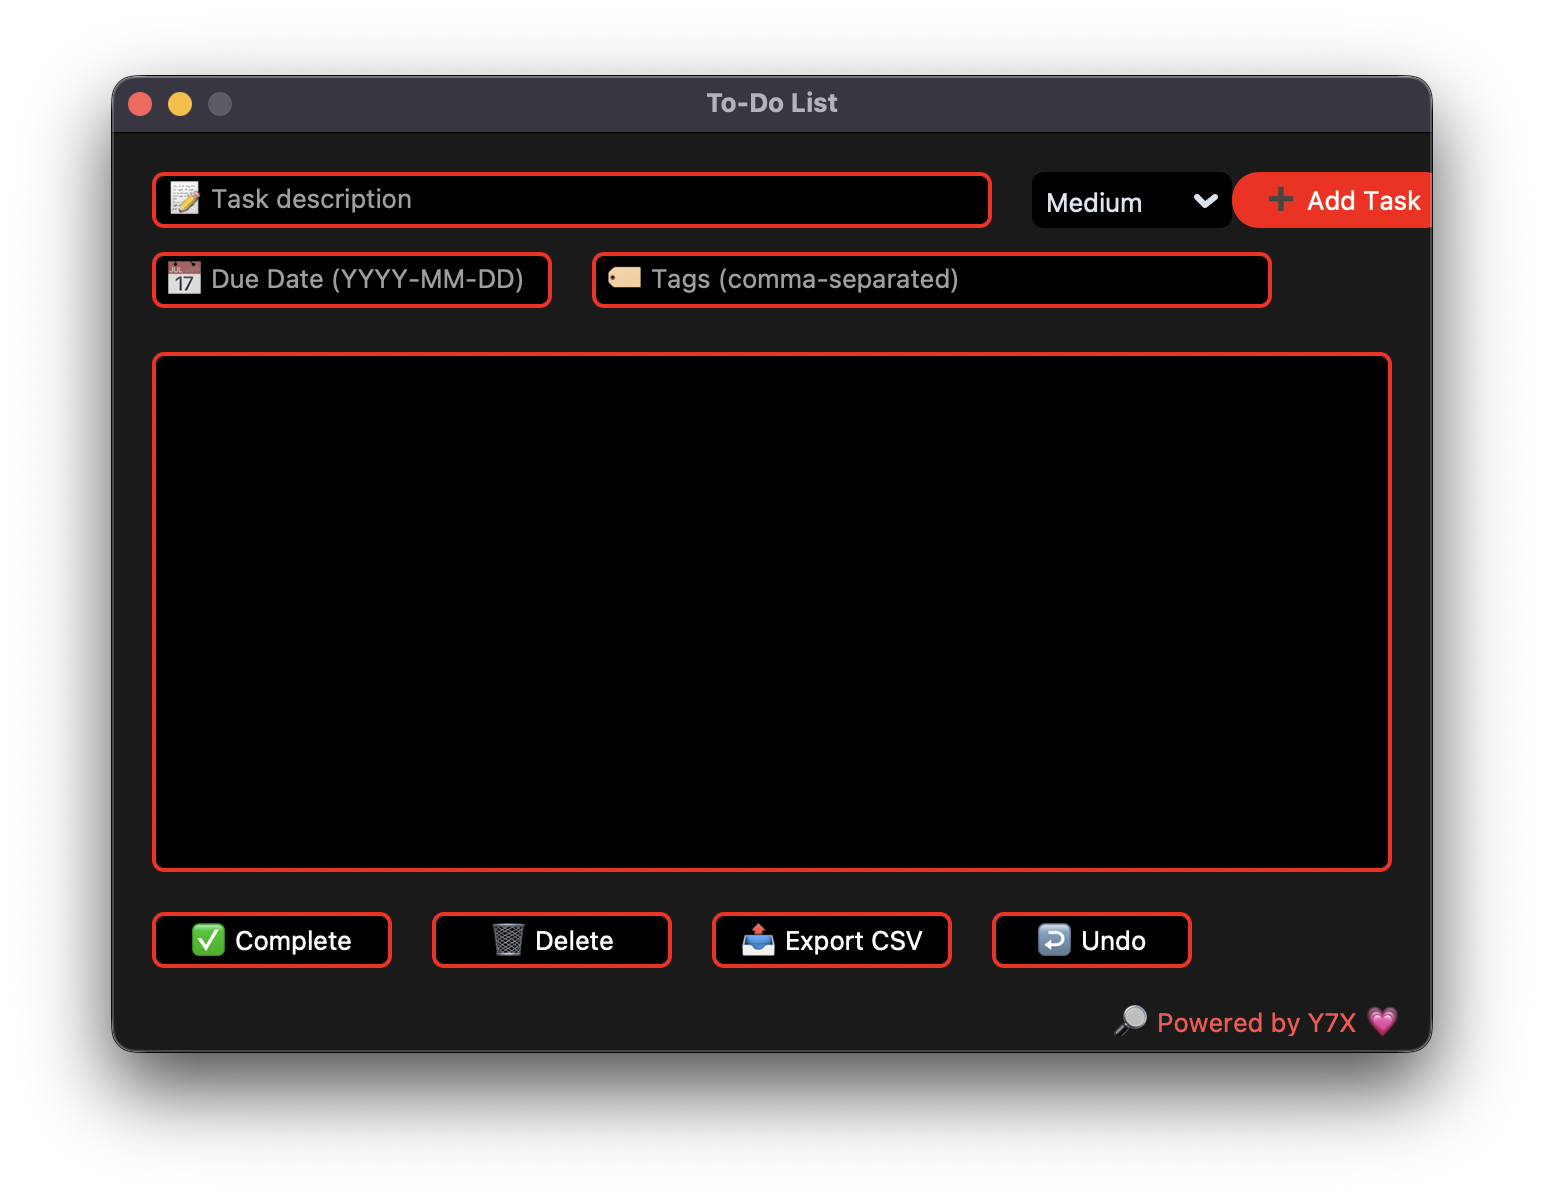
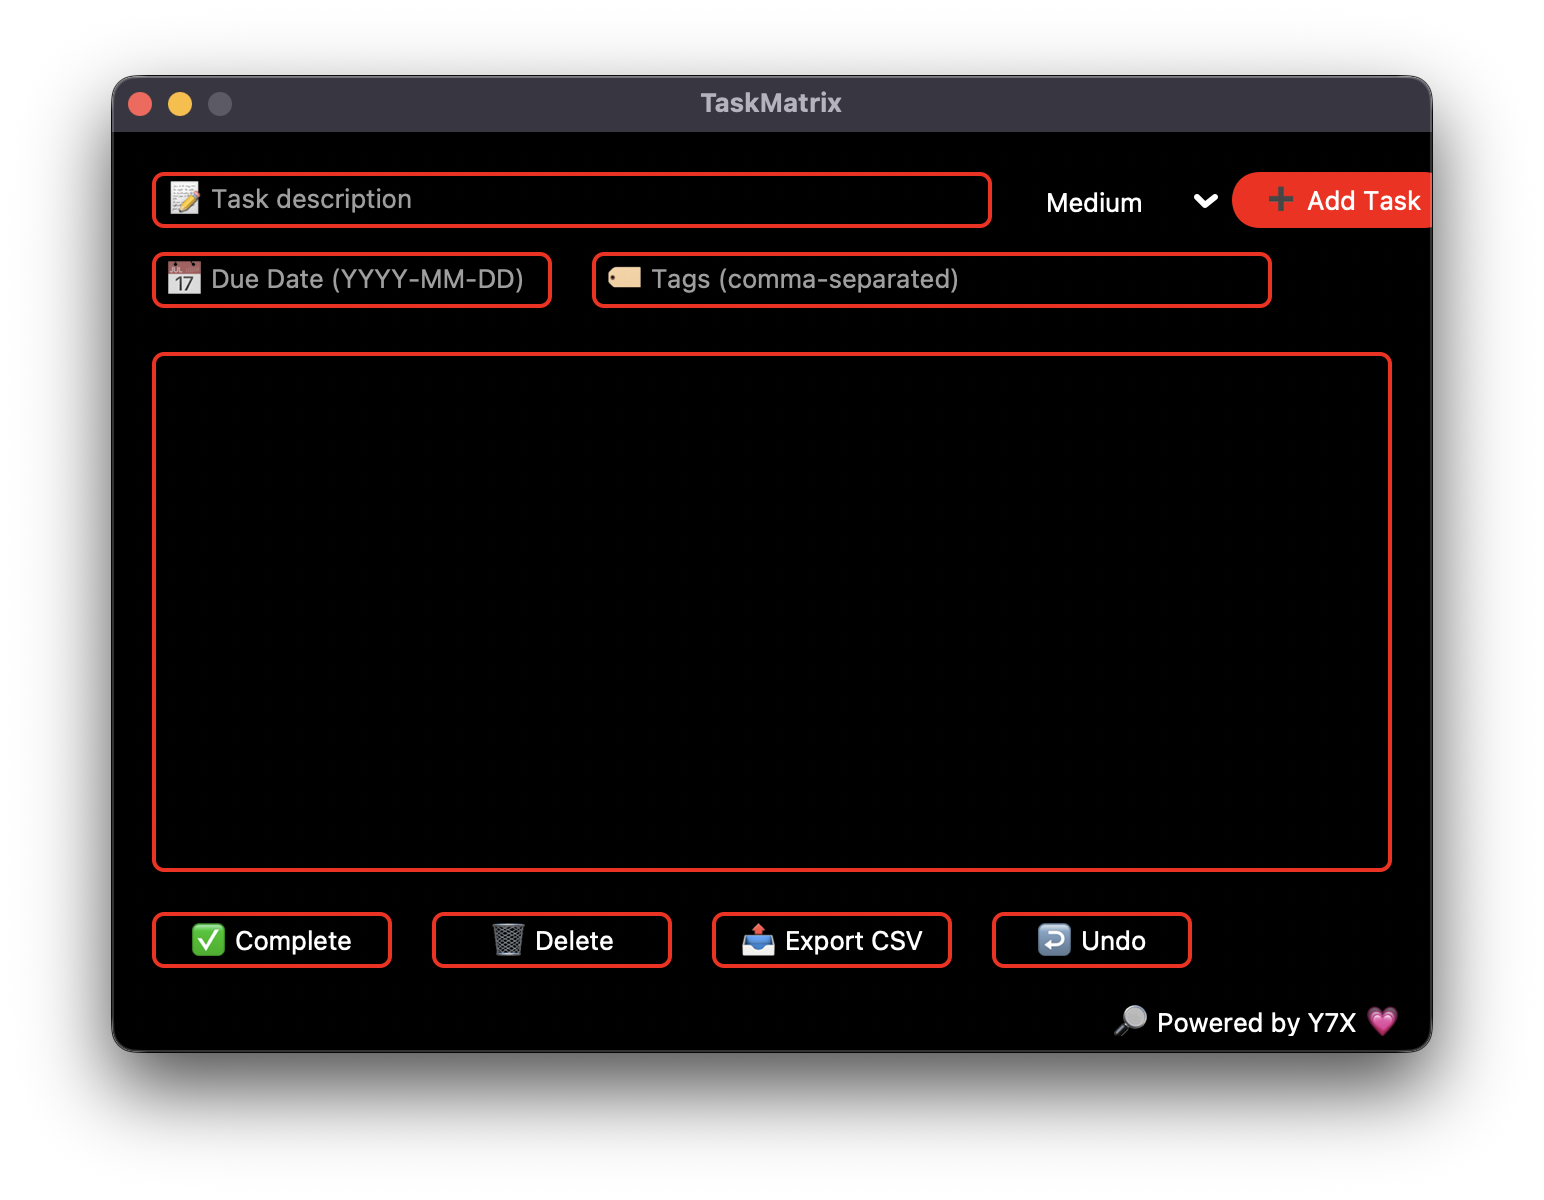
🧠 Minimal chaos. Maximum control

Changed region(s): [[0.0622, 0.0617, 0.9326, 0.8942]]

diff --git a/TaskMatrix.py b/TaskMatrix.py
@@ -22,12 +22,13 @@ class Task:
         if self.tags is None:
             self.tags = []
 
-class TodoApp(ctk.CTk):
+class TaskMatrix(ctk.CTk):
     def __init__(self):
         super().__init__()
-        self.title("To-Do List")
+        self.title("TaskMatrix")
         self.geometry("660x460")
         self.resizable(False, False)
+        self.configure(fg_color="#000000")
         self.filename = "tasks.json"
         self.tasks: List[Task] = []
         self.last_action = None
@@ -35,26 +36,24 @@ class TodoApp(ctk.CTk):
         self.build_ui()
 
     def build_ui(self):
-        self.configure(bg="#000000")
-
-        self.task_entry = ctk.CTkEntry(self, width=420, placeholder_text="📝 Task description", fg_color="#000000", border_color="red", border_width=2)
+        self.task_entry = ctk.CTkEntry(self, width=420, placeholder_text="📝 Task description", fg_color="#000000", border_color="red", border_width=2, text_color="white")
         self.task_entry.place(x=20, y=20)
 
         self.priority_var = ctk.StringVar(value="Medium")
-        self.priority_menu = ctk.CTkOptionMenu(self, values=["Low", "Medium", "High"], variable=self.priority_var, width=100, fg_color="#000000", button_color="#000000")
+        self.priority_menu = ctk.CTkOptionMenu(self, values=["Low", "Medium", "High"], variable=self.priority_var, width=100, fg_color="#000000", button_color="#000000", text_color="white")
         self.priority_menu.place(x=460, y=20)
 
-        self.due_entry = ctk.CTkEntry(self, width=200, placeholder_text="📅 Due Date (YYYY-MM-DD)", fg_color="#000000", border_color="red", border_width=2)
+        self.due_entry = ctk.CTkEntry(self, width=200, placeholder_text="📅 Due Date (YYYY-MM-DD)", fg_color="#000000", border_color="red", border_width=2, text_color="white")
         self.due_entry.place(x=20, y=60)
 
-        self.tags_entry = ctk.CTkEntry(self, width=340, placeholder_text="🏷 Tags (comma-separated)", fg_color="#000000", border_color="red", border_width=2)
+        self.tags_entry = ctk.CTkEntry(self, width=340, placeholder_text="🏷 Tags (comma-separated)", fg_color="#000000", border_color="red", border_width=2, text_color="white")
         self.tags_entry.place(x=240, y=60)
 
         self.add_btn = ctk.CTkButton(self, text="➕ Add Task", width=100, fg_color="red", hover_color="#ff4d4d", text_color="white", corner_radius=20)
         self.add_btn.place(x=560, y=20)
         self.add_btn.configure(command=self.add_task)
 
-        self.task_listbox = ctk.CTkTextbox(self, width=620, height=260, fg_color="#000000", text_color="#ffdddd", border_color="red", border_width=2)
+        self.task_listbox = ctk.CTkTextbox(self, width=620, height=260, fg_color="#000000", text_color="white", border_color="red", border_width=2)
         self.task_listbox.place(x=20, y=110)
         self.task_listbox.configure(state="disabled")
 
@@ -74,11 +73,10 @@ class TodoApp(ctk.CTk):
         self.undo_btn.place(x=440, y=390)
         self.undo_btn.configure(command=self.undo)
 
-        self.brand_label = ctk.CTkLabel(self, text="🔎 Powered by Y7X 💗", text_color="#ff4d4d")
+        self.brand_label = ctk.CTkLabel(self, text="🔎 Powered by Y7X 💗", text_color="white")
         self.brand_label.place(x=500, y=430)
 
         self.update_task_display()
-
 
     def load_tasks(self):
         try:
@@ -183,5 +181,5 @@ class TodoApp(ctk.CTk):
             messagebox.showerror("Export Error", str(e))
 
 if __name__ == "__main__":
-    app = TodoApp()
+    app = TaskMatrix()
     app.mainloop()

diff --git a/README.md b/README.md
@@ -1,7 +1,11 @@
 <div align="center">
 
-# 🖤 Taskmatrix  
-### 🔴 A Fully AMOLED To-Do List App — Minimal. Glowing. Functional.
+# 🖤 TaskMatrix  
+**Minimal chaos. Maximum control**
+
+TaskMatrix** is a minimalist, glowing to-do list app designed for modern productivity.  
+It blends clean task management features with a sleek AMOLED interface powered by red outlines and white-on-black contrast.
+Branded with 💗 by [Y7X-bit](https://github.com/Y7X-bit)
 
 <img src="assets/1.png" width="700"/>
 
@@ -9,19 +13,24 @@
 
 ---
 
-### 🔧 Features
+## 🌟 Features at a Glance
 
-- ✅ Add, delete, and complete tasks with a single click  
-- 🏷 Add tags, due dates & priority levels  
-- 🌑 Full AMOLED theme with glowing red outlines  
-- 📤 Export tasks to CSV  
-- 🔁 Undo last action  
-- 🔎 Powered by **Y7X 💗**
+- ✅ Task creation, deletion & completion
+- 🧠 Priority levels + tags + due dates
+- 🔁 Undo last action
+- 📤 Export to CSV
+- 🖤 AMOLED UI with red outlines & white text
+- 💾 Persistent save via JSON
+- 🔎 Branded: **Powered by Y7X 💗**
 
 ---
 
-### ⚙ Setup
+## 🖥 Installation
+
+> Python 3.9 or later required
 
 ```bash
-pip install customtkinter
-python to_do_app.py
+git clone https://github.com/Y7X-bit/TaskMatrix.git
+cd TaskMatrix
+pip install -r requirements.txt
+python TaskMatrix.py
